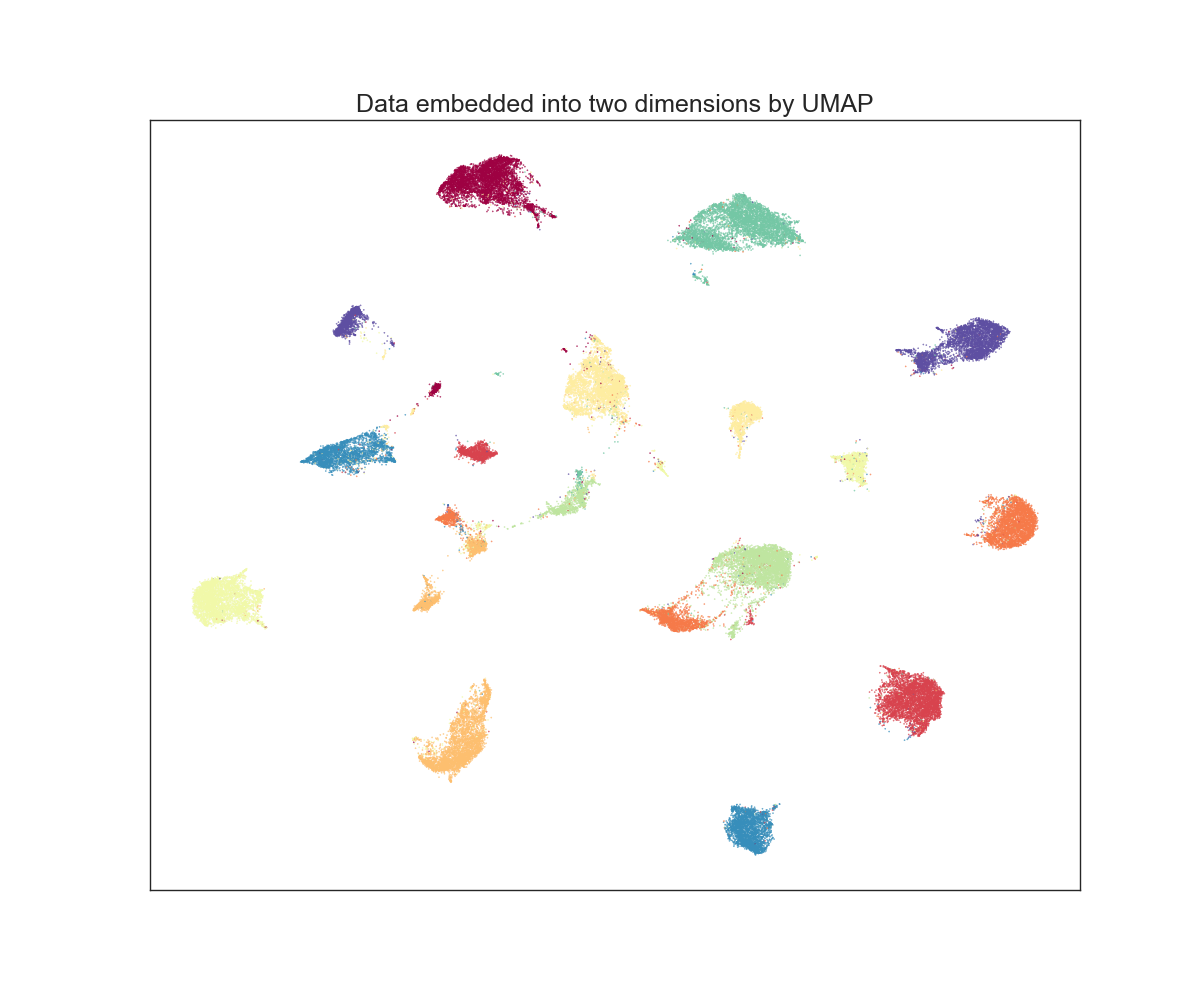
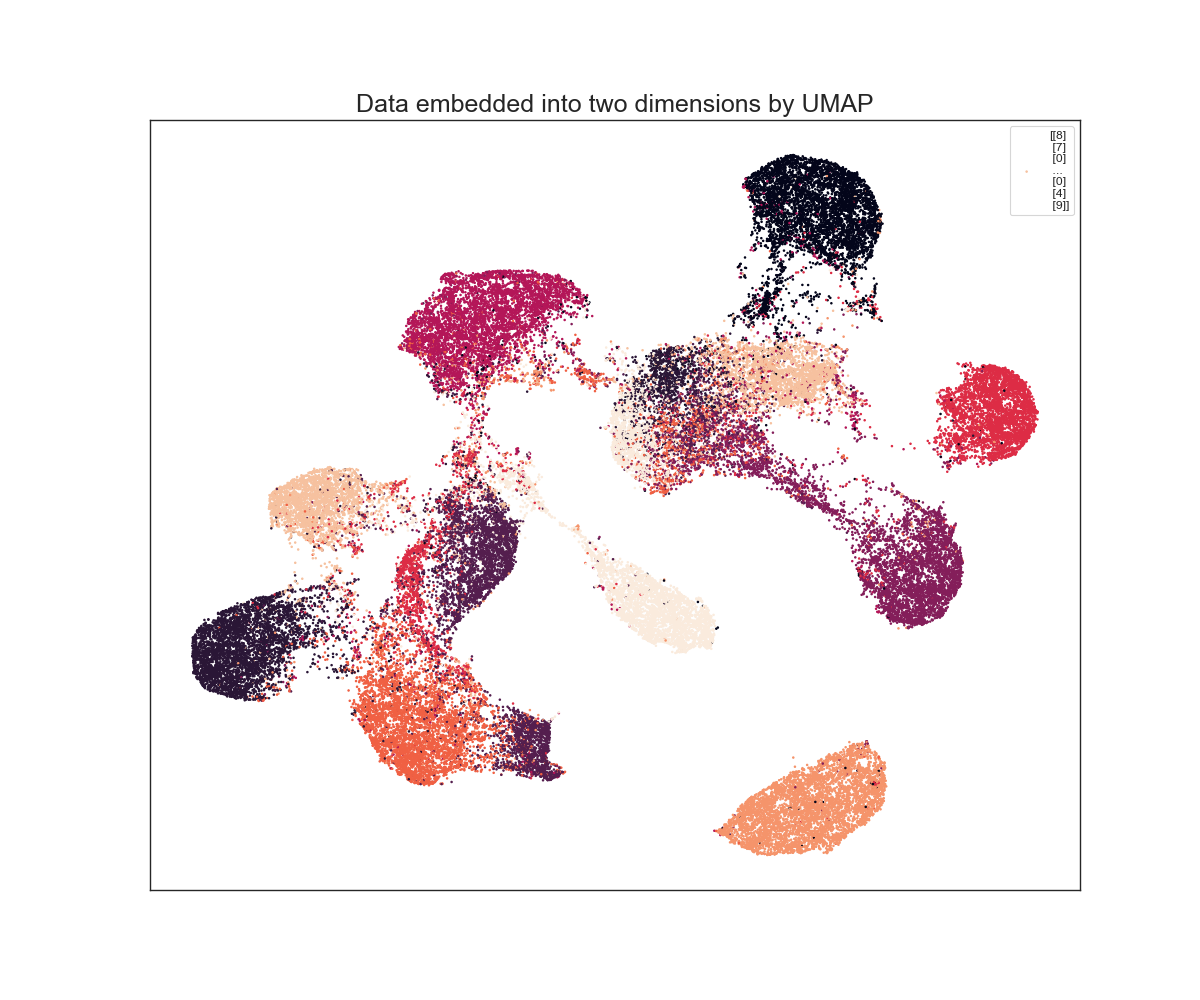
skeleton for laplace-torch stuff + softmax and knn eval

diff --git a/src/main.py b/src/main.py
@@ -1,4 +1,5 @@
 import torch
+import torch.distributions as dists
 import torch.optim as optim
 from torchvision import transforms
 
@@ -15,26 +16,32 @@ import yaml
 import wandb
 from sklearn.neighbors import KNeighborsClassifier
 
+from laplace import Laplace
+from netcal.metrics import ECE
 
-def train(model, loss_func, mining_func, train_loader, optimizer, epoch):
-    model.train()
+
+def train(model, loss_func, mining_func, train_loader, optimizer, epoch, device, laplace=False):
+    
     for batch_idx, (data, labels) in enumerate(train_loader):
-        optimizer.zero_grad()
-        embeddings = model(data)
-        indices_tuple = mining_func(embeddings, labels)
-        loss = loss_func(embeddings, labels, indices_tuple)
-        loss.backward()
-        optimizer.step()
-        wandb.log({"loss": loss})
-        if batch_idx % 20 == 0:
-            if TRAINING_HP['miner'] == 'TripletMarginMiner':
-                print(f"Epoch {epoch} Iteration {batch_idx}/{len(train_loader)}: Loss = {loss}, Number of mined triplets = {mining_func.num_triplets}")
-                wandb.log({"mined triples": mining_func.num_triplets})
-            elif TRAINING_HP['miner'] == 'BatchEasyHardMiner':
-                print(f"Epoch {epoch} Iteration {batch_idx}/{len(train_loader)}: Loss = {loss}")
-
-    return model
-            
+        data, labels = data.to(device), labels.to(device)
+        if laplace:
+            pass # TODO: model.fit(train_loader[batch_idx])
+        else:
+            model.train()
+            optimizer.zero_grad()
+            embeddings = model(data)
+            indices_tuple = mining_func(embeddings, labels)
+            loss = loss_func(embeddings, labels, indices_tuple)
+            loss.backward()
+            optimizer.step()
+            wandb.log({"loss": loss})
+            if batch_idx % 20 == 0:
+                if TRAINING_HP['miner'] == 'TripletMarginMiner':
+                    print(f"Epoch {epoch} Iteration {batch_idx}/{len(train_loader)}: Loss = {loss}, Number of mined triplets = {mining_func.num_triplets}")
+                    wandb.log({"mined triples": mining_func.num_triplets})
+                elif TRAINING_HP['miner'] == 'BatchEasyHardMiner':
+                    print(f"Epoch {epoch} Iteration {batch_idx}/{len(train_loader)}: Loss = {loss}")
+        
         
 def get_all_embeddings(dataset, model):
     tester = testers.BaseTester()
@@ -49,19 +56,28 @@ def knn(train_embeddings, train_labels, test_embeddings, test_labels):
     return testing_acc
 
 
-def test(train_embeddings, train_labels, train_set, test_set, model):
-    #train_embeddings, train_labels = get_all_embeddings(train_set, model)
-    test_embeddings, test_labels = get_all_embeddings(test_set, model)
-    plot_umap("test", test_embeddings, test_labels)
-
-    train_labels = train_labels.squeeze(1)
-    test_labels = test_labels.squeeze(1)
-
-    print("Computing accuracy")
-    test_acc = knn(train_embeddings, train_labels, test_embeddings, test_labels)
+def test(model, test_loader, device, laplace=False):
+    if not laplace:
+        acc_map = []
+        model.eval()
+        targets = torch.cat([y for x, y in test_loader], dim=0).numpy()
+        for batch_idx, (data, labels) in enumerate(test_loader):
+            data, labels = data.to(device), labels.to(device)
+            embeddings = torch.softmax(model(data), dim=1)
+            probs_map = torch.cat([embeddings], dim=1).detach().numpy()
+            y_hat = probs_map.argmax(-1)
+            acc_map.extend([1 if y_hat[idx] == labels[idx] else 0 for idx in range(len(y_hat))])
+            ece_map = ECE(bins=10).measure(probs_map, labels.detach().numpy())
+            nll_map = dists.Categorical(torch.tensor(probs_map)).log_prob(labels).mean()
     
-    print(f"Test set accuracy with KNN: {test_acc}")
-    wandb.log({"test acc knn": test_acc})
+        print(f'[MAP] Acc.: {sum(acc_map)/len(acc_map)}; ECE: {ece_map}; NLL: {nll_map}')
+        wandb.log({"Accuracy": sum(acc_map)/len(acc_map), "ECE": ece_map, "NLL": nll_map})
+
+    if laplace:
+        pass# TODO: implement
+        
+    
+    
 
 
 def set_global_args(args):
@@ -101,7 +117,7 @@ def run():
     wandb.login(key=WANDB_KEY)
     wandb.init(project=PROJECT['name'], name=PROJECT['experiment'], config=TRAINING_HP)
 
-    train_loader, test_loader, training_data, test_data = preproc_data()
+    train_loader, test_loader, train_data, test_data = preproc_data()
 
     if torch.cuda.is_available():
         device = torch.device("cuda")
@@ -114,13 +130,44 @@ def run():
     loss_func, mining_func = setup_pytorch_metric_learning(TRAINING_HP)
 
     for epoch in range(1, TRAINING_HP['epochs'] + 1):
-        model = train(model, loss_func, mining_func, train_loader, optimizer, epoch)
-        train_loader = reshuffle_train(training_data)
-        train_embeddings, train_labels = get_all_embeddings(training_data, model)
-        plot_umap(f"train_{epoch}", train_embeddings, train_labels)
         
-    test(train_embeddings, train_labels, training_data, test_data, model)
+        ### TRAINING ###
+        print("Training without Laplace approximation...")
+        train(model, loss_func, mining_func, train_loader, optimizer, epoch, device, laplace=False)
 
+        
+        #print("Training with Laplace approximation...") # VERY SLOW
+        #la = Laplace(model, 'classification',
+        #     subset_of_weights='last_layer',
+        #     hessian_structure='kron')
+        #model_la = train(la, loss_func, mining_func, test_loader, optimizer, epoch, laplace=True)
+        #la.optimize_prior_precision(method='marglik')
+
+        ### RESHUFFLE FOR NEXT EPOCH ###
+        train_loader = reshuffle_train(train_data)
+
+    ### PLOTTING TRAINING EMBEDDINGS ###
+    train_embeddings, train_labels = get_all_embeddings(train_data, model)
+    plot_umap(f"train_{epoch}", train_embeddings, train_labels)
+
+
+    ### TESTING AND PLOTTING TEST EMBEDDINGS ###
+    print("Testing without Laplace approximation...")
+    test(model, train_loader, device, laplace=False)
+    test_embeddings, test_labels = get_all_embeddings(test_data, model)
+    plot_umap(f"test_{epoch}", test_embeddings, test_labels)
+    
+    print("Testing with Laplace approximation...")
+    # TODO: implement
+
+    ### ACCURACY WITH KNN ###
+    print("Computing accuracy...")
+    train_labels = train_labels.squeeze(1)
+    test_labels = test_labels.squeeze(1)
+    test_acc = knn(train_embeddings, train_labels, test_embeddings, test_labels)
+    
+    print(f"Test set accuracy with KNN: {test_acc}")
+    wandb.log({"Embeddigns KNN Accuracy": test_acc})
 
 if __name__ == "__main__":
 

diff --git a/src/models/model.py b/src/models/model.py
@@ -9,7 +9,9 @@ class Net(nn.Module):
         self.conv2 = nn.Conv2d(32, 64, 3, 1)
         self.dropout1 = nn.Dropout2d(0.25)
         self.dropout2 = nn.Dropout2d(0.5)
-        self.fc1 = nn.Linear(9216, 32)
+        self.fc1 = nn.Linear(9216, 256)
+        self.fc2 = nn.Linear(256, 64)
+        self.fc3 = nn.Linear(64,10)
 
     def forward(self, x):
         x = self.conv1(x)
@@ -20,4 +22,8 @@ class Net(nn.Module):
         x = self.dropout1(x)
         x = torch.flatten(x, 1)
         x = self.fc1(x)
-        return x 
+        x = self.dropout1(x)
+        x = self.fc2(x)
+        x = self.dropout1(x)
+        x = self.fc3(x)
+        return x

diff --git a/src/utils/plots.py b/src/utils/plots.py
@@ -1,4 +1,4 @@
-import umap
+import umap.umap_ as umap
 import matplotlib.pyplot as plt
 import seaborn as sns
 
@@ -10,7 +10,7 @@ def plot_umap(name_prefix, embeddings, labels):
 
     fig, ax = plt.subplots(figsize=(12, 10))
     color = labels.detach().numpy()
-    plt.scatter(embedding[:, 0], embedding[:, 1], c=color, cmap="Spectral", s=0.1)
+    plt.scatter(embedding[:, 0], embedding[:, 1], label=color, c=color, s=1)
     plt.setp(ax, xticks=[], yticks=[])
     plt.legend()
     plt.title("Data embedded into two dimensions by UMAP", fontsize=18)
